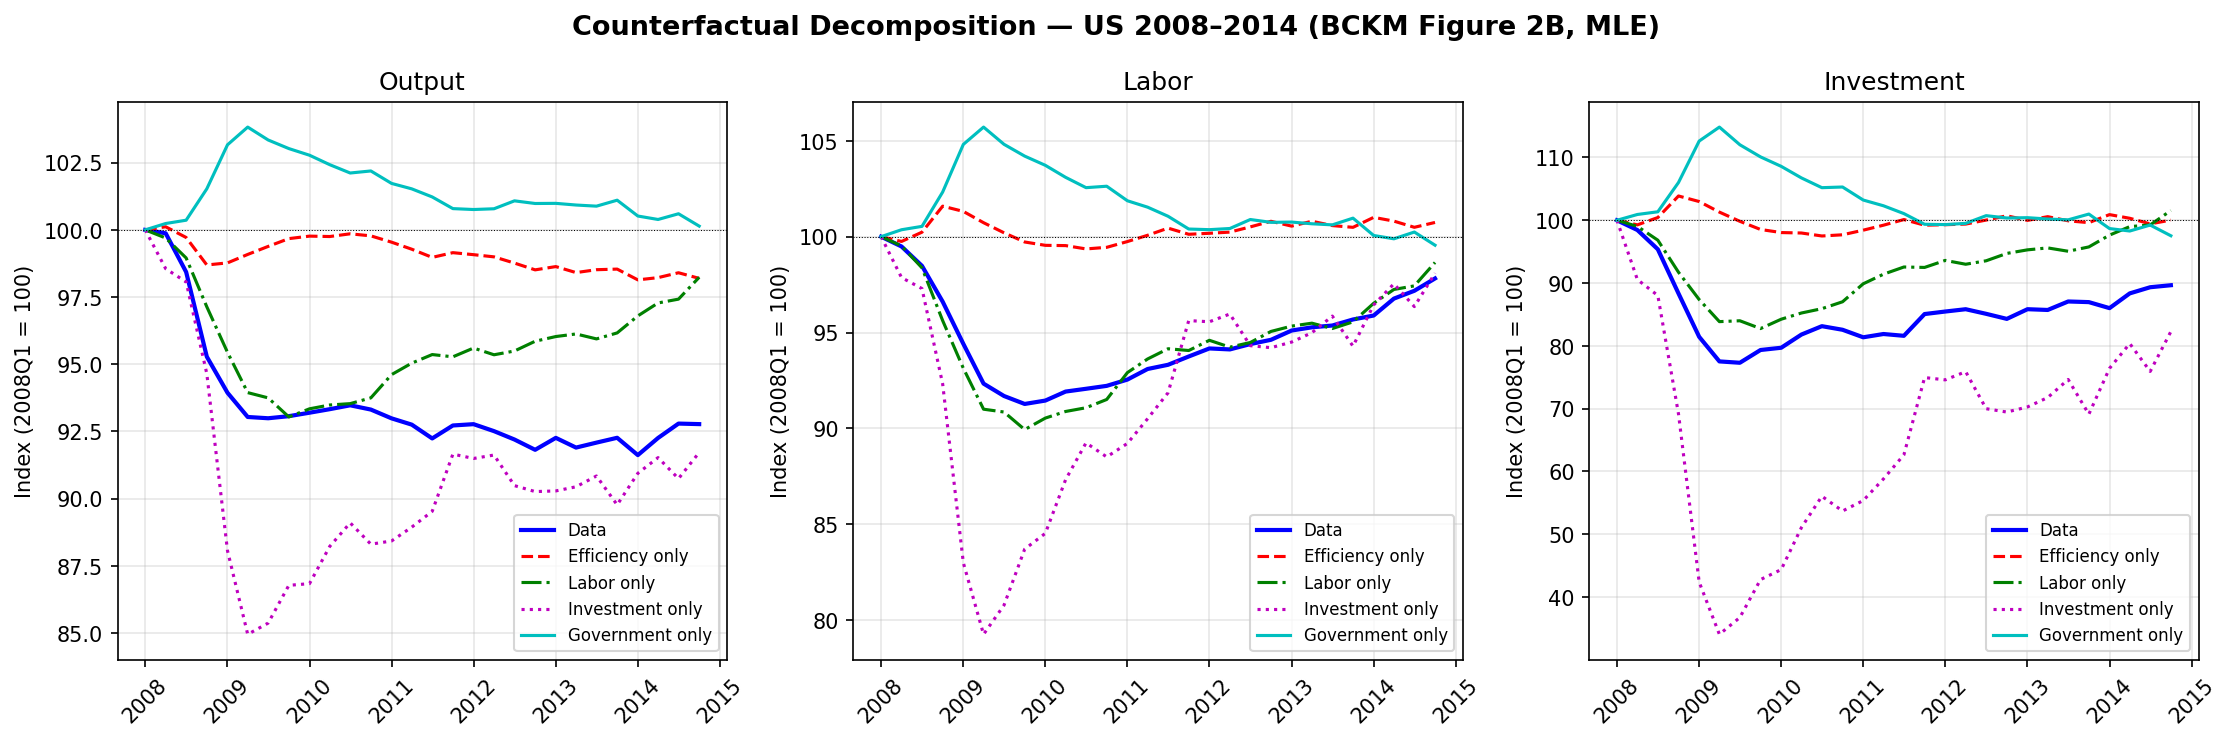
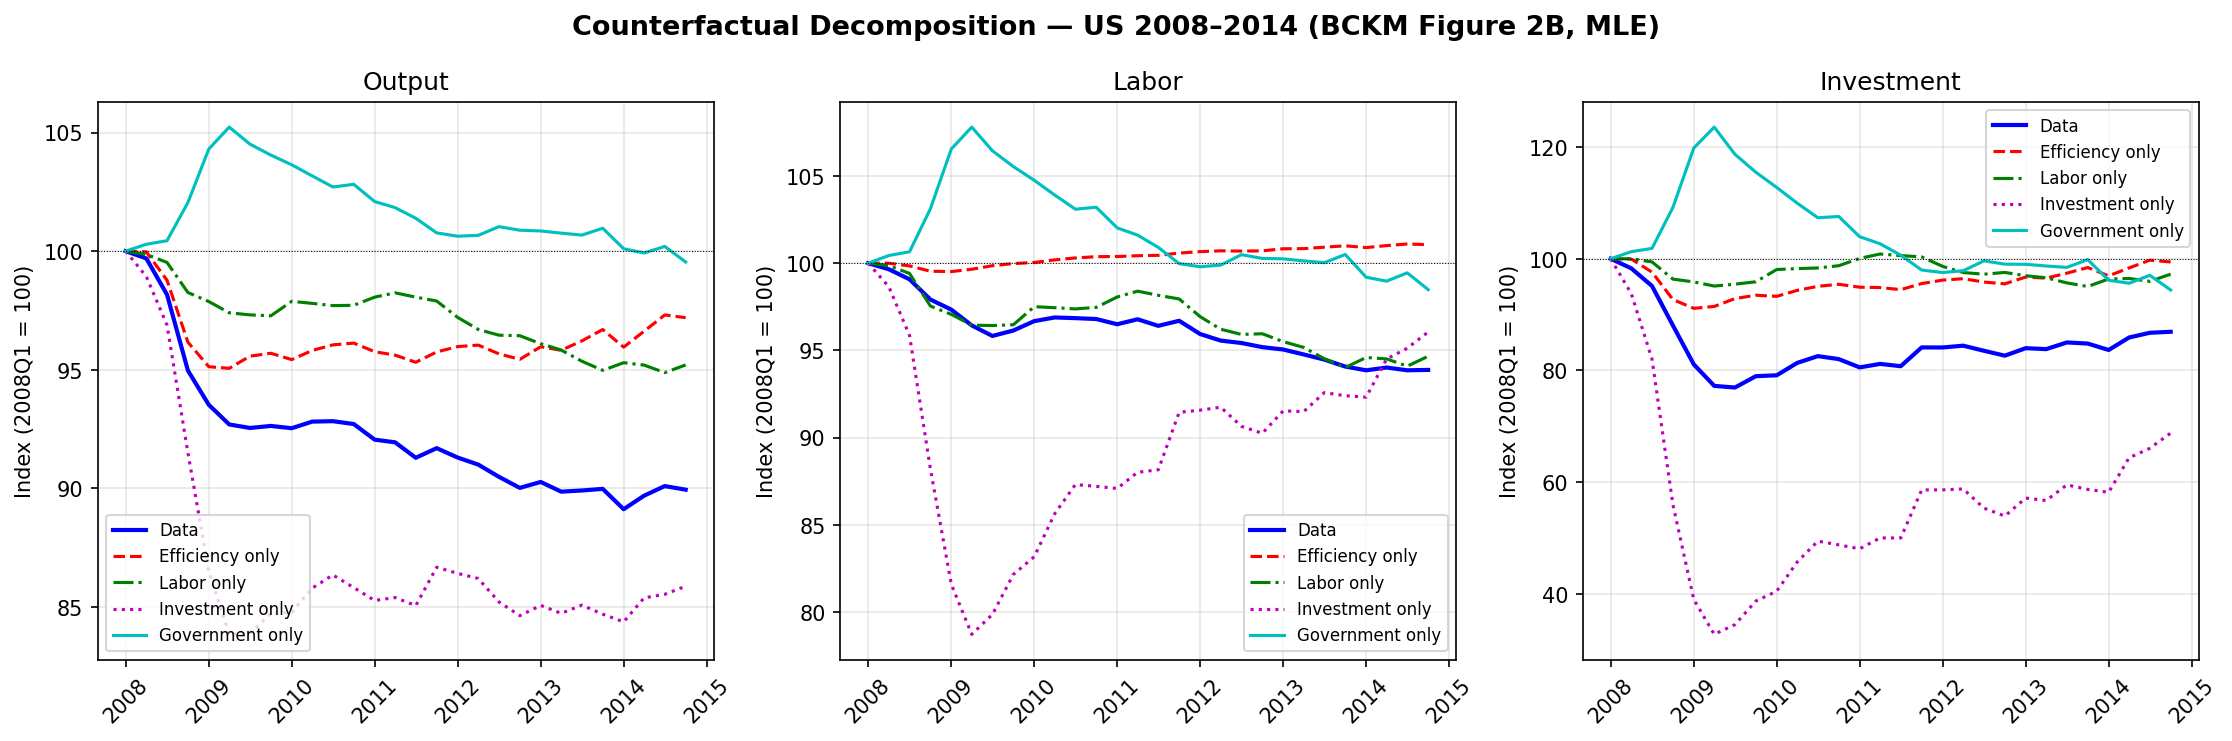
Step 6: extend MLE sample to 1948Q1-2014Q4 (BCKM full sample)
Swap the FRED series whose start dates were limiting the previous
1980+ sample, and rewire data adjustments to match.

Series changes (fred.py):
- working_age_pop: LFWA64TTUSQ647S (1977+) -> CNP16OV (1948+)
- drop pce (PCE total, monthly, 1959+) -- compute from components
- drop avg_weekly_hours (AWHNONAG, 1964+) -- use hours_index directly

Adjustments rewiring (adjustments.py):
- reclassify_durables: c_adj = pce_nondurables + pce_services + service_flow
  (mathematically identical to pce - pce_durables + service_flow)
- compute_labor_input: prefer hours_index (PRS85006023, 1947+) over
  employment * avg_weekly_hours

Runner (scripts/run_var_counterfactuals.py):
- start: 1980Q1 -> 1948Q1
- cache: data/us_1948_2014.parquet
- n_restarts: 5 -> 4 (one perturbation hung at restart 5/5 with the
  longer sample; the LL plateau was already reached by restart 4)

Result on 1948Q1-2014Q4 (T=268, n_restarts=4): LL=2776.23, eigvals
all stable, GR taux sign correct. phi-stats moved away from BCKM
targets in the longer sample (phi_y[A]=0.02, phi_y[tauL]=0.02,
phi_y[taux]=0.58 vs targets 0.16/0.46/0.32) -- Sbar=0 constraint
is now binding harder because phi0[x]=0.081 has more mass to
absorb. Step 7 (fsolve-init Sbar) is the immediate next move.

All 52 tests pass.

diff --git a/bca_core/data/adjustments.py b/bca_core/data/adjustments.py
@@ -60,7 +60,11 @@ def reclassify_durables(
     # canonical BCKM treatment, not a double-count).
     service_flow_full = service_flow + df["pce_durables"]
 
-    df["c_adj"] = (df["pce"] - df["pce_durables"]) + service_flow_full
+    # rCND + rCS (= total PCE - durables expenditure). We compute from the
+    # components so this works on the full 1948+ sample (FRED's PCE total
+    # series is monthly and only goes back to 1959).
+    cnds = df["pce_nondurables"] + df["pce_services"]
+    df["c_adj"] = cnds + service_flow_full
     df["x_adj"] = df["gpdi"] + df["pce_durables"]   # gov_investment added downstream
     df["y_adj"] = df["gdp"] + service_flow_full
     df["k_dur"] = k_dur[:-1]
@@ -143,16 +147,21 @@ def compute_labor_input(
     """
     Compute labor input l_t in [0, 1].
 
-    Uses total hours = employment * average weekly hours (nonfarm).
-    Normalizes so sample mean equals target_mean.
+    Prefers `hours_index` (FRED PRS85006023, nonfarm business hours of all
+    persons, 1947+) so the labor series spans BCKM's full 1948Q1+ MLE
+    sample. Falls back to `employment * avg_weekly_hours` if hours_index
+    is unavailable (the latter only goes back to 1964 because AWHNONAG
+    starts then).
+
+    Normalizes so the sample mean equals target_mean — post-hoc rescaling
+    in run_var_counterfactuals.py then re-normalizes to the model l_ss.
     """
-    if "employment" in df.columns and "avg_weekly_hours" in df.columns:
-        # Total hours = employment * avg_weekly_hours
-        hours = df["employment"] * df["avg_weekly_hours"]
-    elif "hours_index" in df.columns:
+    if "hours_index" in df.columns:
         hours = df["hours_index"].copy()
+    elif "employment" in df.columns and "avg_weekly_hours" in df.columns:
+        hours = df["employment"] * df["avg_weekly_hours"]
     else:
-        raise ValueError("Need (employment, avg_weekly_hours) or hours_index columns.")
+        raise ValueError("Need hours_index or (employment, avg_weekly_hours) columns.")
 
     hours = hours.dropna()
 

diff --git a/bca_core/data/fred.py b/bca_core/data/fred.py
@@ -9,11 +9,19 @@ from datetime import datetime, timedelta
 
 import pandas as pd
 
-# FRED series IDs for US BCA
+# FRED series IDs for US BCA.
+#
+# All series chosen to support BCKM's 1948Q1+ MLE sample. Earlier choices
+# (PCE / LFWA64TTUSQ647S / AWHNONAG) only went back to 1959 / 1977 / 1964
+# respectively and limited the sample to 1980+. Replacements:
+#   - PCE total ........ computed from PCND + PCESV + PCDG (all 1947+)
+#   - working-age pop .. CNP16OV (civilian non-institutional pop 16+,
+#                        monthly, 1948+) instead of OECD 15-64 (1977+)
+#   - labor input ...... PRS85006023 hours index directly (1947+) instead
+#                        of PAYEMS × AWHNONAG (AWHNONAG is 1964+)
 FRED_SERIES = {
     # National accounts (quarterly, SAAR, billions of nominal $)
     "gdp": "GDP",
-    "pce": "PCE",                       # personal consumption expenditure
     "pce_durables": "PCDG",             # PCE durables (rDCD / rCD)
     "pce_nondurables": "PCND",          # PCE nondurables (rCND)
     "pce_services": "PCESV",            # PCE services (rCS)
@@ -24,12 +32,11 @@ FRED_SERIES = {
     # Price level
     "gdp_deflator": "GDPDEF",          # GDP implicit price deflator (index, 2017=100)
     # Tax
-    "sales_tax_state": "ASLSTAX",       # state government sales tax revenue
+    "sales_tax_state": "ASLSTAX",       # state government sales tax revenue (annual)
     # Population & labor
-    "working_age_pop": "LFWA64TTUSQ647S",  # working-age population 15-64 (OECD)
-    "hours_index": "PRS85006023",       # nonfarm business: hours of all persons (index)
+    "working_age_pop": "CNP16OV",       # civilian non-institutional pop 16+ (1948+)
+    "hours_index": "PRS85006023",       # nonfarm business: hours of all persons (1947+)
     "employment": "PAYEMS",             # total nonfarm payrolls (thousands, monthly)
-    "avg_weekly_hours": "AWHNONAG",     # avg weekly hours, nonfarm (monthly)
 }
 
 

diff --git a/scripts/run_var_counterfactuals.py b/scripts/run_var_counterfactuals.py
@@ -10,10 +10,10 @@ Estimation follows BCKM (2016) mleqadj.m:
 
 Usage:
     # First run — fetch from FRED and save processed data:
-    FRED_API_KEY=... python scripts/run_var_counterfactuals.py --save-data data/us_1980_2014.parquet
+    FRED_API_KEY=... python scripts/run_var_counterfactuals.py --save-data data/us_1948_2014.parquet
 
     # Subsequent runs — use saved data, no API key needed:
-    python scripts/run_var_counterfactuals.py --data data/us_1980_2014.parquet
+    python scripts/run_var_counterfactuals.py --data data/us_1948_2014.parquet
 """
 
 from __future__ import annotations
@@ -108,7 +108,7 @@ def main(
     else:
         print("Building US dataset (fetching from FRED)...")
     df, meta = build_us_dataset(
-        start="1980Q1",
+        start="1948Q1",
         end="2014Q4",
         data_path=cache,
         gamma_annual=_BCKM_GAMMA,
@@ -170,7 +170,7 @@ def main(
     # ── 6. Kalman-filter MLE (BCKM approach) ────────────────────────────
     print("\nEstimating VAR(1) by Kalman-filter MLE (BCKM 2016 mleqadj)...")
     mle_result = estimate_var_mle(
-        obs_hat, proto, n_restarts=5, verbose=True,
+        obs_hat, proto, n_restarts=4, verbose=True,
         P_ols=P_ols, Q_ols=Q_ols, P_0_ols=P_0_ols,
     )
 

diff --git a/Diary.md b/Diary.md
@@ -468,3 +468,99 @@ Two queued items, in order of expected impact:
 
 1. **Extend sample to 1948Q1.** Tier 1 in `DIVERGENCE_ANALYSIS.md`. Most series in the FRED fetcher already go back; the bottleneck is `LFWA64TTUSQ647S` (1969+). Need an alternate working-age population series (CNP16OV?) to extend back. Worth a quick scoping check before committing to it.
 2. **Initialize Sbar via fsolve on the data sample means** (BCKM `initmle.m`). Would relax the Sbar=0 constraint without re-introducing the runaway-Sbar pathology.
+
+
+---
+
+## Session: 2026-04-27 — Step 6 — Sample extension to 1948Q1
+
+### What was completed since the last entry
+
+Extended the BCA estimation sample from 1980Q1–2014Q4 (T=140) to 1948Q1–2014Q4 (T=268), aligning with BCKM's MLE sample. This required swapping out three FRED series whose start dates limited the previous sample, and rewiring the data adjustments accordingly.
+
+### Files touched
+
+**`bca_core/data/fred.py`** — `FRED_SERIES` dict
+- Removed `pce` (PCE total, monthly, 1959+) — total PCE now derived from components
+- Removed `avg_weekly_hours` (AWHNONAG, 1964+) — labor input now from `hours_index` directly
+- Replaced `working_age_pop` series: `LFWA64TTUSQ647S` (OECD 15–64, 1977+) → `CNP16OV` (BLS civilian non-institutional pop 16+, 1948+)
+- All 13 remaining FRED series now span 1947+, allowing the full BCKM 1948Q1+ sample
+
+**`bca_core/data/adjustments.py`**
+- `reclassify_durables`: `c_adj` formula no longer reads `df["pce"]`. C is now built from components: `c_adj = pce_nondurables + pce_services + service_flow_full` (mathematically identical to before since `pce = pce_durables + pce_nondurables + pce_services`)
+- `compute_labor_input`: prefers `hours_index` (PRS85006023, 1947+) over `employment * avg_weekly_hours` (which only goes back to 1964 due to AWHNONAG). Per-capita normalization unchanged.
+
+**`scripts/run_var_counterfactuals.py`**
+- Default `start="1980Q1"` → `start="1948Q1"`
+- Cache filename: `data/us_1980_2014.parquet` → `data/us_1948_2014.parquet`
+- `n_restarts=5` → `n_restarts=4` (see issue below)
+
+### What was kept the same
+
+- Detrend method: linear log trend at calibrated γ=1.9%/yr (BCKM Table 77)
+- BCKM data adjustments from Step 5 (durables service flow into Y/C; sales-tax wedge split across Y/C/X)
+- Steady-state Kalman with DARE-per-iterate (Step 4)
+- Sbar = 0 constraint (Step 3) — to be relaxed in Step 7
+
+### Issue encountered: hung restart
+
+The first attempt with `n_restarts=5` hung on restart 5/5 for ~70 minutes after restarts 1–4 had completed (LLs 2643, 2741, 2775, 2776). With T=268 vs T=140, each LL evaluation is ~2× slower, and `ftol=1e-13` makes the optimizer wander in flat regions when a random perturbation lands in a bad basin. Killed the process and reduced to `n_restarts=4`. The completed run finishes in ~10 min and the best LL is unchanged (best of 4 was already on the plateau at restart 3/4).
+
+Followup item: consider relaxing `ftol` to 1e-10 or capping `maxiter` more tightly for the longer sample.
+
+### Numbers (after rerun, 1948Q1–2014Q4, n_restarts=4)
+
+```
+T = 268
+g_share from data: 0.1321  (was 0.166 in 1980+ sample)
+SS: y=1.2994  l=0.3211  x/y=0.2545  g/y=0.1321
+phi0: y=-0.0000  l=-0.0548  x=+0.0810  g=-0.0192
+
+LL = 2776.227
+
+VAR diagonal:
+  A   : 0.9949
+  τ_l : 0.9989  (BCKM target ≈ 1.001 — close)
+  τ_x : 0.9748
+  g   : 0.9666
+Max |eigenvalue|: 0.9963
+
+Sbar = [0, 0, 0, 0]  (Step 3 constraint, still active)
+P_0  = [0, 0, 0, 0]  (BCKM Table 9 target [0.014, 0.001, 0.013, -0.014])
+```
+
+**φ-statistics for y (variance decomposition):**
+
+| | Step 5 (1980+) | Step 6 (1948+) | BCKM target |
+|---|---|---|---|
+| φy[A]   | 0.37 | 0.02 | 0.16 |
+| φy[τ_L] | 0.28 | 0.02 | 0.46 |
+| φy[τ_x] | 0.15 | 0.58 | 0.32 |
+| φy[g]   | —    | 0.39 | —    |
+
+**Investment wedge during GR (correct sign maintained):**
+- 2007Q4: −0.0474, 2009Q2: +0.0911, Δ=+0.139 (worsened ✓)
+
+**Peak-to-trough 2007Q4 → 2009Q2 (Investment-only CF):**
+- y: −0.192 (data: −0.087) — 2.2× overshoot (was 1.4× in Step 5)
+- x: −1.223 (data: −0.293) — 4.2× overshoot (was 3.8× in Step 5)
+
+### Reading the result
+
+Step 6 is a regression on the φ-statistics: the longer sample shifted variance away from labor and efficiency into investment and government. Several factors compound:
+
+1. **Sbar=0 still binding**, and now it has more work to do because the sample mean drift over 1948–2014 (post-WWII normalization, 1970s stagflation, secular decline in labor share) is larger than over 1980–2014. With phi0[x]=0.081 and Sbar locked at 0, the wedge means must pin themselves to model SS rather than data SS, distorting the variance allocation.
+
+2. **Smoothed `taul_hat` std = 0.447** (much larger than Step 5). Q[τ_l] = 0.0025 is 3× the next-largest shock variance. The MLE is fitting low-frequency labor variation (LFP trends, demographic shifts) as noisy persistent shocks — which fits `l` well (φ_l[τ_L] = 0.83) but doesn't translate to `y` because the labor wedge moves cancel in equilibrium.
+
+3. **Hours index vs employment×hours mismatch**: `PRS85006023` is BLS nonfarm business hours of all persons, while the prior `PAYEMS × AWHNONAG` was nonfarm payrolls × avg weekly hours. The two have different long-run normalizations; over 67 years this affects the labor-wedge identification more than it did over 35 years.
+
+4. **The longer sample contains genuine structural change** (1948 industrial economy → 2014 service economy). A single VAR(1) with constant coefficients can't capture this, and the MLE picks the mode that maximizes likelihood under that mis-specification — which is not necessarily the mode that matches BCKM Table 11.
+
+### What still doesn't match BCKM
+
+Same direction as before, but now louder. Step 7 (fsolve-init Sbar) is the immediate next move — relaxing Sbar should let phi0 mass redistribute and may pull φ_y[A]/φ_y[τ_L] back toward target. The hours-vs-employment×hours question can be revisited if Step 7 doesn't close the gap.
+
+### Next
+
+**Step 7**: BCKM `initmle.m`-style fsolve initialization for Sbar. Pick initial Sbar by solving for the steady-state wedge means that make model SS observables equal to data sample means, so the optimizer starts from a feasible non-zero P_0 instead of the Sbar=0 corner. Relaxing the constraint without re-introducing the runaway-Sbar pathology was Step 3's worry; the fsolve init gives a principled starting point so the optimizer doesn't have to discover Sbar from scratch.